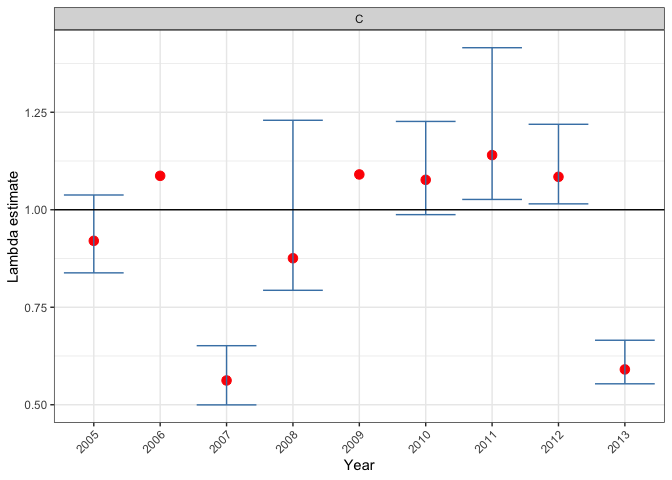
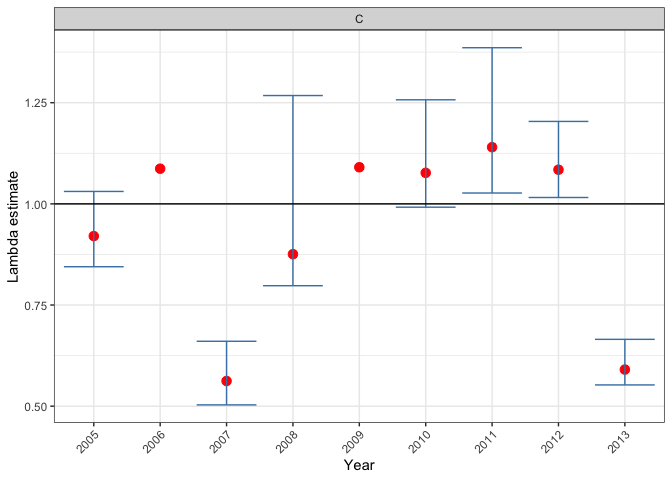
adding licences

diff --git a/README.md b/README.md
@@ -1,5 +1,18 @@
 
 <!-- README.md is generated from README.Rmd. Please edit that file -->
+<!-- # Copyright 2024 Province of Alberta -->
+<!-- # -->
+<!-- # Licensed under the Apache License, Version 2.0 (the "License"); -->
+<!-- # you may not use this file except in compliance with the License. -->
+<!-- # You may obtain a copy of the License at -->
+<!-- # -->
+<!-- # http://www.apache.org/licenses/LICENSE-2.0 -->
+<!-- # -->
+<!-- # Unless required by applicable law or agreed to in writing, software -->
+<!-- # distributed under the License is distributed on an "AS IS" BASIS, -->
+<!-- # WITHOUT WARRANTIES OR CONDITIONS OF ANY KIND, either express or implied. -->
+<!-- # See the License for the specific language governing permissions and -->
+<!-- # limitations under the License. -->
 
 # bbouretro
 
@@ -74,15 +87,15 @@ summary
 #> # A tibble: 9 × 13
 #>   PopulationName  Year     S     R Lambda SE_Lambda Lambda_LCL Lambda_UCL
 #>   <chr>          <int> <dbl> <dbl>  <dbl>     <dbl>      <dbl>      <dbl>
-#> 1 C               2005 0.832 0.096  0.92      0.052      0.838      1.04 
+#> 1 C               2005 0.832 0.096  0.92      0.05       0.845      1.03 
 #> 2 C               2006 1     0.08   1.09     NA         NA         NA    
-#> 3 C               2007 0.524 0.068  0.562     0.04       0.5        0.651
-#> 4 C               2008 0.824 0.059  0.876     0.151      0.793      1.23 
+#> 3 C               2007 0.524 0.068  0.562     0.041      0.503      0.66 
+#> 4 C               2008 0.824 0.059  0.876     0.142      0.798      1.27 
 #> 5 C               2009 1     0.083  1.09     NA         NA         NA    
-#> 6 C               2010 0.926 0.14   1.08      0.062      0.987      1.23 
-#> 7 C               2011 0.96  0.158  1.14      0.099      1.03       1.42 
-#> 8 C               2012 0.963 0.112  1.08      0.051      1.01       1.22 
-#> 9 C               2013 0.512 0.133  0.591     0.029      0.554      0.665
+#> 6 C               2010 0.926 0.14   1.08      0.069      0.992      1.26 
+#> 7 C               2011 0.96  0.158  1.14      0.095      1.03       1.39 
+#> 8 C               2012 0.963 0.112  1.08      0.05       1.02       1.20 
+#> 9 C               2013 0.512 0.133  0.591     0.029      0.553      0.665
 #> # ℹ 5 more variables: Prop_LGT1 <dbl>, meanSimSurv <dbl>, meanRsim <dbl>,
 #> #   meanSimLambda <dbl>, medianSimLambda <dbl>
 bbr_plot_lambda(lambda_est)
@@ -95,6 +108,16 @@ bbr_plot_lambda_distributions(lambda_est, "C")
 ```
 
 <img src="man/figures/README-unnamed-chunk-4-4.png" width="100%" />
+
+## bbou Suite
+
+`bbouretro` is part of the bbou suite of tools. Other packages in this
+suite include:
+
+- [bboudata](https://github.com/poissonconsulting/bboudata)
+- [bboutools](https://github.com/poissonconsulting/bboutools)
+- [bboushiny](https://github.com/poissonconsulting/bboushiny)
+- [bbousims](https://github.com/poissonconsulting/bbousims)
 
 ## Contribution
 
